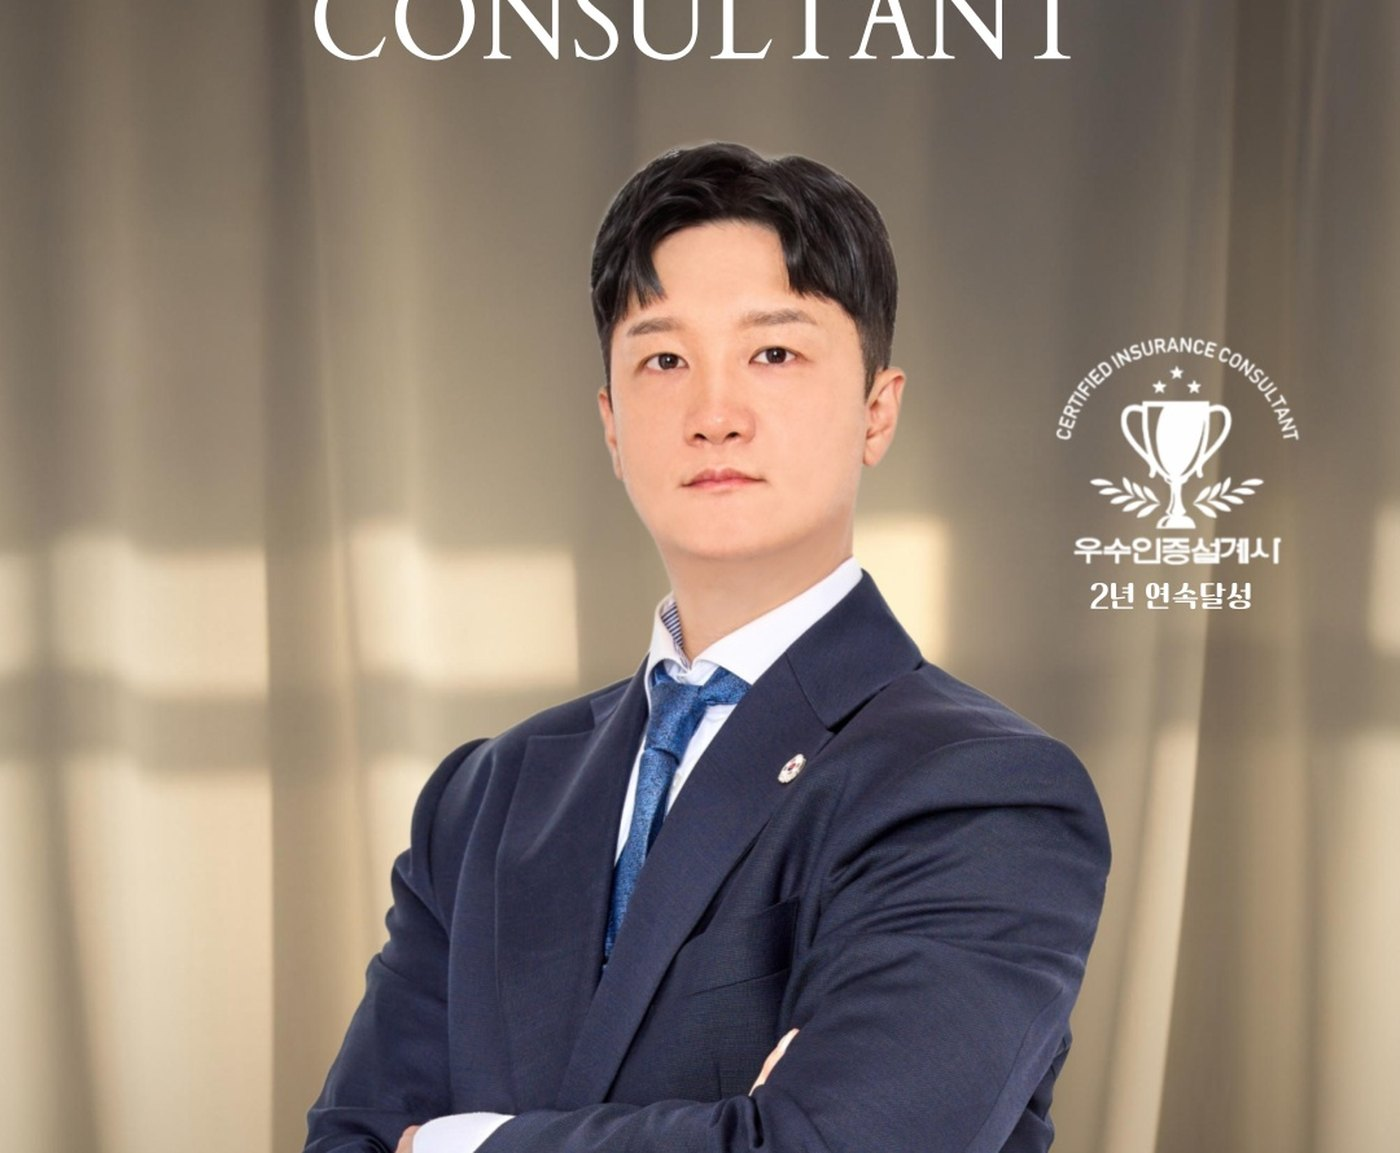
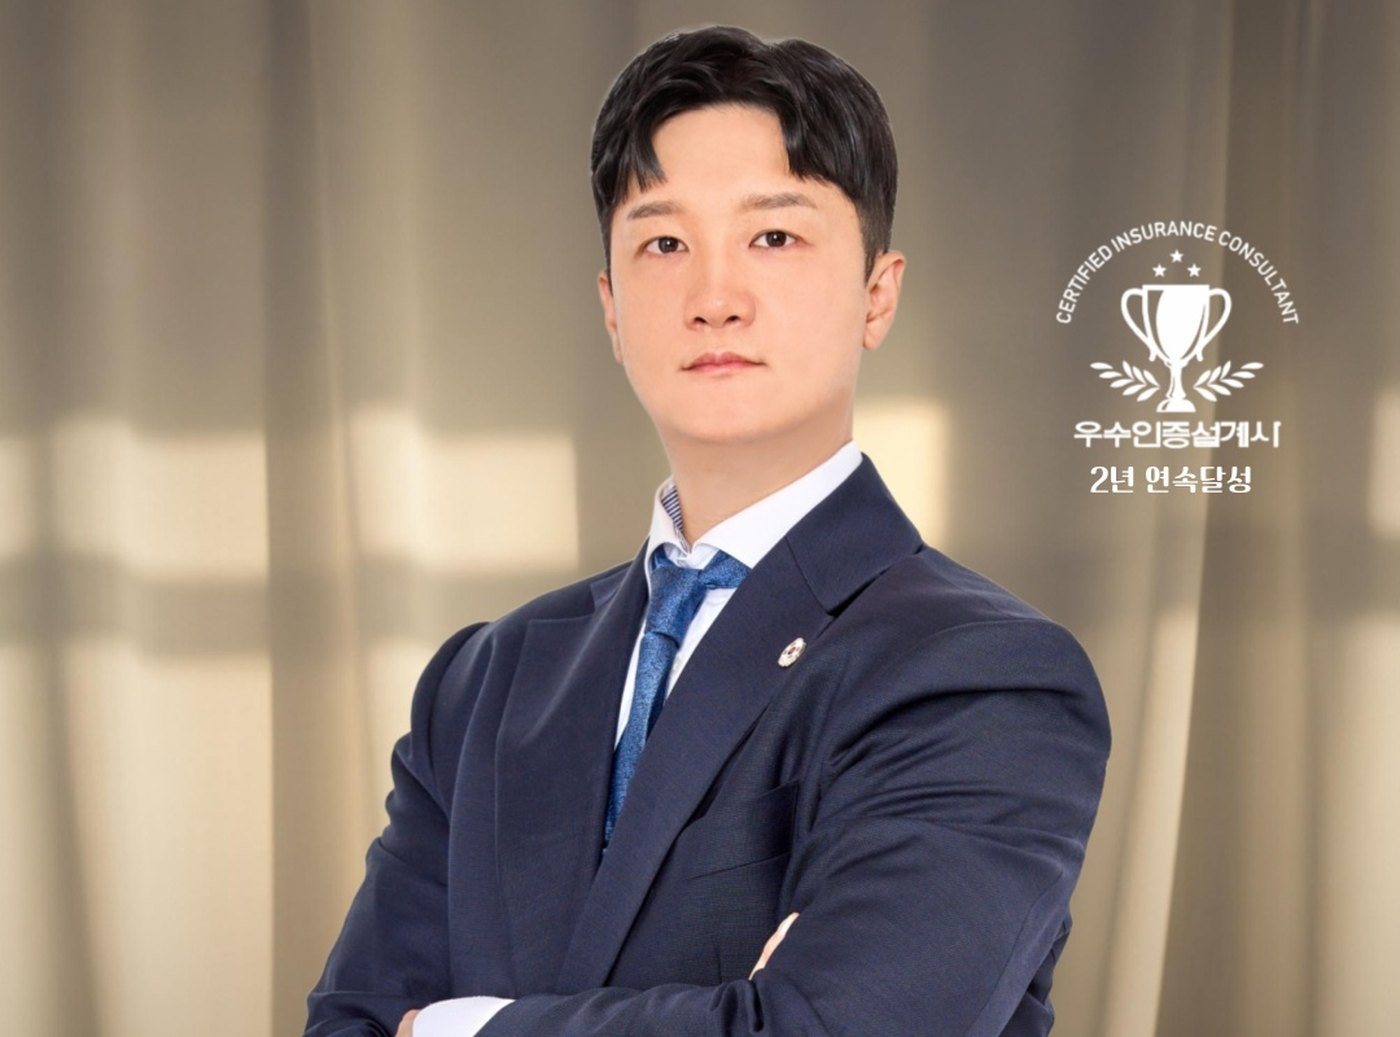
히어로 사진 축소 배치, 스크롤 모션·카운트업 추가

diff --git a/index.html b/index.html
@@ -80,11 +80,12 @@ a{color:inherit;text-decoration:none}
 .btn-full{width:100%}
 
 /* hero */
-.hero{position:relative;overflow:hidden;color:#F4F1EA;min-height:460px;display:flex;align-items:flex-end;
+.hero{position:relative;overflow:hidden;color:#F4F1EA;min-height:500px;display:flex;align-items:flex-end;
   background:
     linear-gradient(92deg, rgba(22,20,24,.96) 0%, rgba(22,20,24,.88) 38%, rgba(22,20,24,.45) 62%, rgba(22,20,24,.05) 100%),
     linear-gradient(180deg, rgba(22,20,24,.15) 0%, rgba(22,20,24,0) 40%, rgba(22,20,24,.55) 100%),
-    url("img/hero.jpg") 80% 0%/cover no-repeat, #16141A}
+    url("img/hero.jpg") right bottom/auto 86% no-repeat,
+    url("img/hero_blur.jpg") center/cover no-repeat, #16141A}
 .hero > div{max-width:58%}
 .hero .pill{background:rgba(255,255,255,.12);color:#EDE6D6}
 .hero .pill i{background:#D9B36A}
@@ -103,7 +104,8 @@ a{color:inherit;text-decoration:none}
   .hero{min-height:560px;align-items:flex-end;
     background:
       linear-gradient(180deg, rgba(22,20,24,.05) 0%, rgba(22,20,24,.35) 38%, rgba(22,20,24,.94) 62%, rgba(22,20,24,.98) 100%),
-      url("img/hero.jpg") 62% 0%/cover no-repeat, #16141A}
+      url("img/hero.jpg") 72% 0%/auto 70% no-repeat,
+      url("img/hero_blur.jpg") center/cover no-repeat, #16141A}
   .hero > div{max-width:100%}
   .hero .cta .btn{flex:1}
   .hero-name{top:16px;bottom:auto;right:16px}
@@ -206,6 +208,23 @@ footer{max-width:740px;margin:0 auto;padding:0 18px 20px;font-size:11.5px;color:
 .sticky{position:fixed;left:0;right:0;bottom:0;z-index:50;display:flex;gap:8px;padding:10px 12px calc(10px + env(safe-area-inset-bottom));
   background:var(--card);border-top:1px solid var(--line)}
 .sticky .btn{flex:1;padding:13px 10px;font-size:14.5px}
+/* motion */
+.js .rv{opacity:0;transform:translateY(18px);transition:opacity .6s cubic-bezier(.2,.7,.2,1),transform .6s cubic-bezier(.2,.7,.2,1)}
+.js .rv.in{opacity:1;transform:none}
+.js .hero .pill,.js .hero h1,.js .hero p,.js .hero .cta{animation:up .7s cubic-bezier(.2,.7,.2,1) both}
+.js .hero h1{animation-delay:.08s}.js .hero p{animation-delay:.16s}.js .hero .cta{animation-delay:.24s}
+@keyframes up{from{opacity:0;transform:translateY(16px)}to{opacity:1;transform:none}}
+.btn{position:relative;overflow:hidden}
+.btn::after{content:"";position:absolute;inset:0;background:linear-gradient(100deg,transparent 30%,rgba(255,255,255,.35) 50%,transparent 70%);transform:translateX(-120%);transition:transform .7s ease}
+.btn:hover::after{transform:translateX(120%)}
+.hero .btn-b{animation:pulse 2.6s ease-in-out infinite}
+@keyframes pulse{0%,100%{box-shadow:0 0 0 0 rgba(217,179,106,.45)}50%{box-shadow:0 0 0 10px rgba(217,179,106,0)}}
+.card{transition:transform .25s ease,box-shadow .25s ease}
+.card:not(.hero):not(.final):hover{transform:translateY(-3px);box-shadow:0 2px 6px rgba(15,23,42,.05),0 18px 40px -18px rgba(15,23,42,.32)}
+.four > div,.proc > div,.svc{transition:transform .2s ease}
+.four > div:hover,.proc > div:hover,.svc:hover{transform:translateY(-2px)}
+@media(prefers-reduced-motion:reduce){.js .rv,.js .hero *,.hero .btn-b,.btn::after{animation:none!important;transition:none!important;opacity:1!important;transform:none!important}}
+
 @media(min-width:741px){.sticky{display:none}body{padding-bottom:0}}
 </style>
 
@@ -224,13 +243,13 @@ footer{max-width:740px;margin:0 auto;padding:0 18px 20px;font-size:11.5px;color:
     <div class="hero-name"><b>강승현 팀장</b>프라임에셋 316본부 · 우수인증설계사</div>
   </section>
 
-  <section class="card stats">
-    <div><b class="tnum">10년차</b><span>보험설계사 근속</span></div>
+  <section class="card stats rv">
+    <div><b class="tnum" data-count="10" data-suffix="년차">10년차</b><span>보험설계사 근속</span></div>
     <div><b class="tnum">2년 연속</b><span>우수인증설계사 선발</span></div>
-    <div><b class="tnum">31개사</b><span>전 보험사 비교</span></div>
+    <div><b class="tnum" data-count="31" data-suffix="개사">31개사</b><span>전 보험사 비교</span></div>
   </section>
 
-  <section class="card">
+  <section class="card rv">
     <h2>내 보험, 제대로 비교해 보셨나요?</h2>
     <p class="lead">가입만 해두고 몇 년째 그대로인 보험, 중복되거나 비어 있는 보장은 없는지 무료로 봐 드려요.</p>
     <div class="photo"><img src="img/docs.jpg" alt="책상 위에 놓인 보험 서류" width="1200" height="675"></div>
@@ -242,7 +261,7 @@ footer{max-width:740px;margin:0 auto;padding:0 18px 20px;font-size:11.5px;color:
     </ul>
   </section>
 
-  <section class="card">
+  <section class="card rv">
     <h2>상담 서비스 안내</h2>
     <p class="lead">두 가지 모두 비용은 없습니다. 결과만 받아보고 끝내셔도 돼요.</p>
     <div class="svcs">
@@ -261,7 +280,7 @@ footer{max-width:740px;margin:0 auto;padding:0 18px 20px;font-size:11.5px;color:
     </div>
   </section>
 
-  <section class="card">
+  <section class="card rv">
     <h2>왜 강승현인가요</h2>
     <table class="cmp">
       <thead><tr><th></th><th class="me">강승현</th><th>일반 설계사</th></tr></thead>
@@ -274,12 +293,12 @@ footer{max-width:740px;margin:0 auto;padding:0 18px 20px;font-size:11.5px;color:
     </table>
   </section>
 
-  <section class="card">
+  <section class="card rv">
     <span class="pill"><i></i>실제 비교 결과</span>
     <h2>같은 보장인데 총 납입액이 이만큼 갈립니다</h2>
     <p class="lead">45세 남성 고객님, 종합(무해지형) 20년납 100세 만기 조건으로 31개사를 조회한 결과예요.</p>
     <div class="big">
-      <div class="n"><small>총 납입 보험료 차이</small><b class="tnum">775만원</b><span>월로는 32,308원이에요</span></div>
+      <div class="n"><small>총 납입 보험료 차이</small><b class="tnum" data-count="775" data-suffix="만원">775만원</b><span>월로는 32,308원이에요</span></div>
       <table>
         <tr><th></th><td class="lo">최저</td><td class="hi">최대</td></tr>
         <tr><th>보험사</th><td class="lo">DB손보</td><td class="hi">MG손보</td></tr>
@@ -290,7 +309,7 @@ footer{max-width:740px;margin:0 auto;padding:0 18px 20px;font-size:11.5px;color:
     <p class="note">손해보험·생명보험 2025-03-10 조회 기준. 나이·성별·담보에 따라 달라지니 상담 때 고객님 조건으로 다시 뽑아 드려요.</p>
   </section>
 
-  <section class="card">
+  <section class="card rv">
     <h2>증권 주시면 네 가지를 같이 봐 드려요</h2>
     <div class="four">
       <div><i>1</i><div><b>보장 범위</b><p>사망·장해·암·뇌·심장처럼 1억 원이 드는 큰 위험부터 채워져 있는지 봅니다.</p></div></div>
@@ -301,7 +320,7 @@ footer{max-width:740px;margin:0 auto;padding:0 18px 20px;font-size:11.5px;color:
     <div class="photo" style="margin-bottom:0"><img src="img/house.jpg" alt="집 모형과 열쇠" width="1200" height="675"></div>
   </section>
 
-  <section class="card">
+  <section class="card rv">
     <h2>상담 절차</h2>
     <div class="proc">
       <div><i>1</i><b>연락 주세요</b><p>전화나 문자로 증권 사진만 보내주시면 됩니다.</p></div>
@@ -310,7 +329,7 @@ footer{max-width:740px;margin:0 auto;padding:0 18px 20px;font-size:11.5px;color:
     </div>
   </section>
 
-  <section class="card">
+  <section class="card rv">
     <h2>인증</h2>
     <div class="cert">
       <img src="img/emblem.png" alt="우수인증설계사 엠블럼" width="440" height="440">
@@ -318,7 +337,7 @@ footer{max-width:740px;margin:0 auto;padding:0 18px 20px;font-size:11.5px;color:
     </div>
   </section>
 
-  <section class="card" id="faq">
+  <section class="card rv" id="faq">
     <h2>자주 묻는 질문</h2>
     <details open><summary>상담받으면 꼭 가입해야 하나요?</summary><div class="a">아니요~ 보장분석 현황이 괜찮으면 유지하시는 게 가장 좋습니다! 문제 있을 때만 상세히 설명드려요.</div></details>
     <details><summary>상담료가 드나요?</summary><div class="a">받지 않아요~ 상담료는 무료입니다!</div></details>
@@ -326,7 +345,7 @@ footer{max-width:740px;margin:0 auto;padding:0 18px 20px;font-size:11.5px;color:
     <details><summary>증권이 어디 있는지 모르겠어요.</summary><div class="a">괜찮아요! 문의 주시면 설계 동의 링크를 보내드려요. 링크에서 인증만 해주시면 제가 면밀히 진단해드릴 수 있어요!</div></details>
   </section>
 
-  <section class="card final" id="contact">
+  <section class="card final rv" id="contact">
     <h2>갖고 계신 보험, 바로 점검해보세요!</h2>
     <p class="lead">수백만원에서 수천만원까지 아낄 수 있습니다.</p>
     <div class="cta">
@@ -346,6 +365,29 @@ footer{max-width:740px;margin:0 auto;padding:0 18px 20px;font-size:11.5px;color:
   <a class="btn btn-o" href="sms:01092867134">문자 상담</a>
   <a class="btn btn-b" href="tel:01092867134">무료 점검 전화</a>
 </div>
+
+<script>
+(function(){
+  document.documentElement.classList.add('js');
+  var rm = matchMedia('(prefers-reduced-motion: reduce)').matches;
+  var els = [].slice.call(document.querySelectorAll('.rv'));
+  if (rm || !('IntersectionObserver' in window)) { els.forEach(function(e){ e.classList.add('in'); }); return; }
+  var io = new IntersectionObserver(function(en){
+    en.forEach(function(x){ if (x.isIntersecting) { x.target.classList.add('in'); io.unobserve(x.target); } });
+  }, {rootMargin: '0px 0px -8% 0px', threshold: .08});
+  els.forEach(function(e){ io.observe(e); });
+  function run(el){
+    var to = +el.dataset.count, suf = el.dataset.suffix || '', t0 = null;
+    function f(t){ if (!t0) t0 = t; var p = Math.min(1, (t - t0) / 900); p = 1 - Math.pow(1 - p, 3);
+      el.textContent = Math.round(to * p) + suf; if (p < 1) requestAnimationFrame(f); }
+    requestAnimationFrame(f);
+  }
+  var io2 = new IntersectionObserver(function(en){
+    en.forEach(function(x){ if (x.isIntersecting) { run(x.target); io2.unobserve(x.target); } });
+  }, {threshold: .5});
+  [].slice.call(document.querySelectorAll('[data-count]')).forEach(function(n){ io2.observe(n); });
+})();
+</script>
 
 </body>
 </html>
